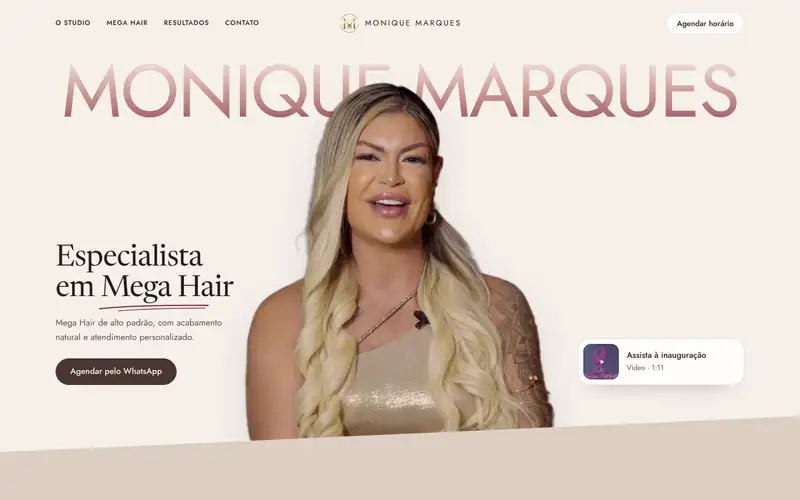
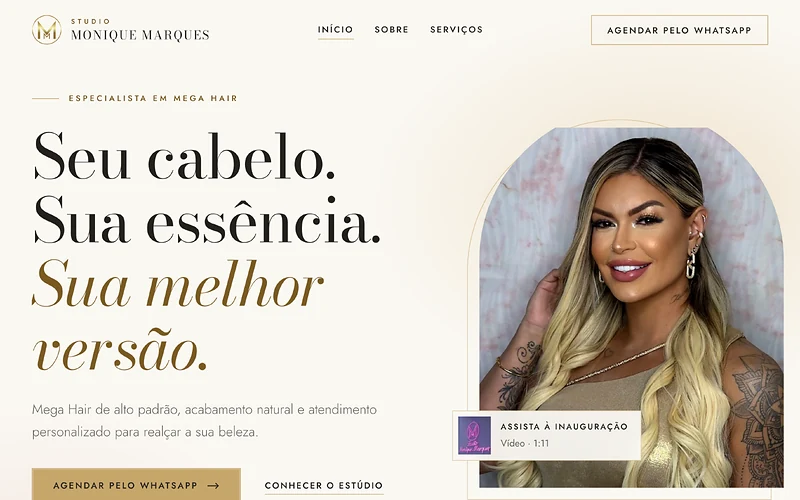
Atualiza o projeto Studio Monique Marques para a nova versão do site (hero com retrato)
Claude-Session: https://claude.ai/code/session_016EiU8NvsorJn2QpkbRXkRw

diff --git a/index.html b/index.html
@@ -397,10 +397,10 @@
                 <div class="case__scene">
                   <figure class="device device--browser case__main">
                     <div class="device__bar"><i></i><i></i><i></i></div>
-                    <img src="assets/projects/monique-desktop.webp" srcset="assets/projects/monique-desktop-sm.webp 800w, assets/projects/monique-desktop.webp 1200w" sizes="(min-width: 60em) 455px, 70vw" alt="Página inicial do site do Studio Monique Marques, em tons claros, com o nome em letras grandes e o título &quot;Especialista em Mega Hair&quot;." width="1200" height="750" loading="lazy" decoding="async" />
+                    <img src="assets/projects/monique-desktop.webp" srcset="assets/projects/monique-desktop-sm.webp 800w, assets/projects/monique-desktop.webp 1200w" sizes="(min-width: 60em) 455px, 70vw" alt="Página inicial do site do Studio Monique Marques, em tons claros e dourado, com o título &quot;Seu cabelo. Sua essência. Sua melhor versão.&quot; e o retrato da Monique em moldura de arco." width="1200" height="750" loading="lazy" decoding="async" />
                   </figure>
                   <figure class="device device--phone case__phone">
-                    <img src="assets/projects/monique-mobile.webp" alt="Versão para celular do site do Studio Monique Marques." width="300" height="649" loading="lazy" decoding="async" />
+                    <img src="assets/projects/monique-mobile.webp" alt="Versão para celular do site do Studio Monique Marques." width="420" height="909" loading="lazy" decoding="async" />
                   </figure>
                 </div>
               </div>
@@ -408,12 +408,12 @@
                 <p class="case__kicker">Landing page de salão</p>
                 <h3 class="case__title">Studio Monique Marques</h3>
                 <p class="case__text">
-                  Landing page de uma especialista em mega hair, aberta com o vídeo real da
-                  inauguração do studio (com botão para pular), apresentação do espaço e do
-                  serviço e chamada para contato.
+                  Landing page de uma especialista em mega hair, com abertura em vídeo da inauguração do
+                  studio (com botão para pular), retrato em destaque na primeira tela, galeria
+                  "Por dentro do Studio" e chamada para contato.
                 </p>
                 <dl class="spec">
-                  <div><dt>Seções</dt><dd>Abertura em vídeo, O studio, Mega Hair, Contato</dd></div>
+                  <div><dt>Seções</dt><dd>Abertura em vídeo, Início, Sobre, Serviços, Por dentro do Studio, Contato</dd></div>
                   <div><dt>Estado</dt><dd>Em desenvolvimento</dd></div>
                 </dl>
               </div>
